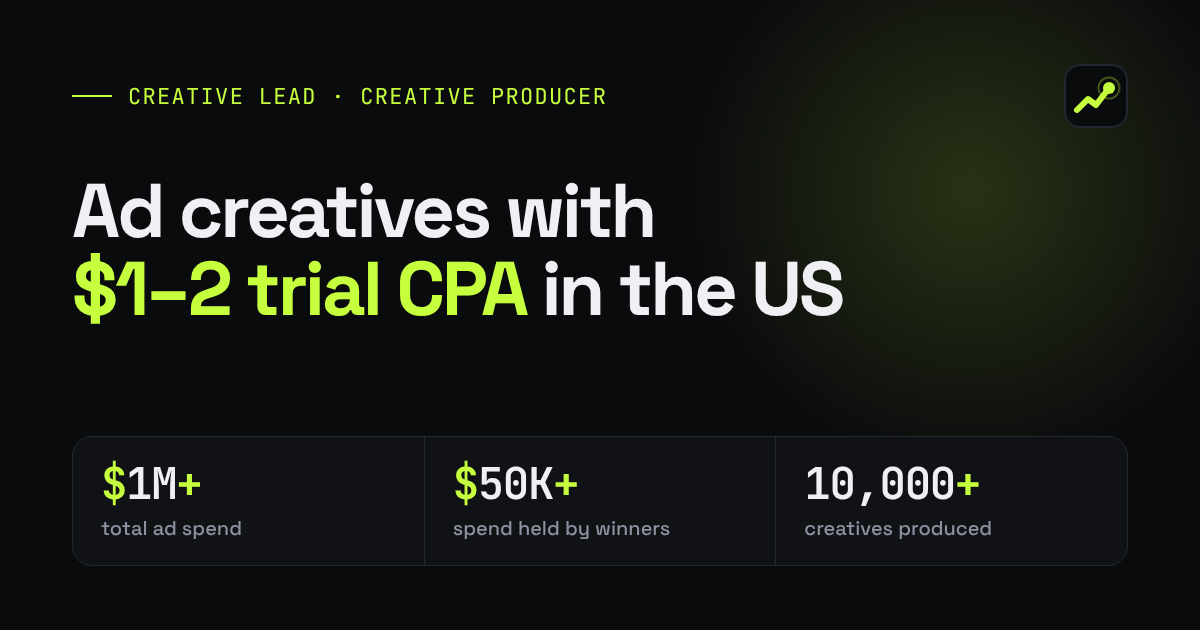
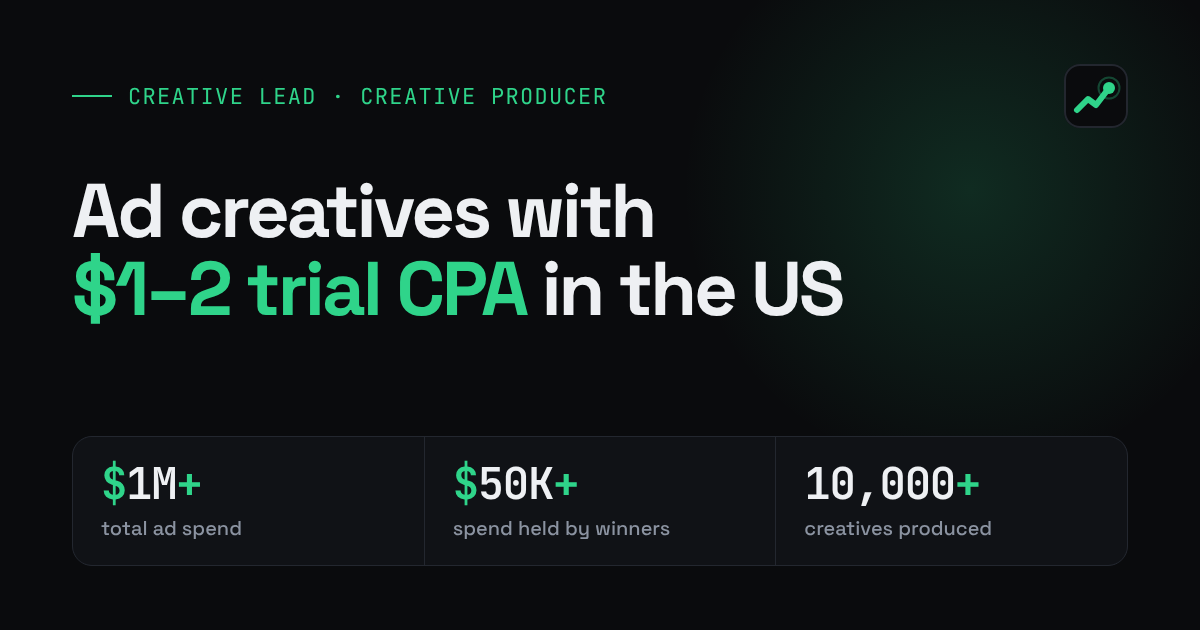
v15: emerald accent, calmer accent usage, warm white
Claude-Session: https://claude.ai/code/session_01Arj4ckdP8LwnjHu1jkwCt5

diff --git a/index.html b/index.html
@@ -28,7 +28,7 @@
   --line:#23272f;
   --text:#eef0f3;
   --muted:#8b93a1;
-  --accent:#c6ff3d;
+  --accent:#2fd48a;
   --accent-ink:#0a0b0d;
   --accent-2:#5ee1ff;
   --accent-3:#b892ff;
@@ -66,13 +66,13 @@ nav .btn{padding:9px 16px;font-size:14px}
 
 /* HERO */
 .hero{padding:64px 0 64px;position:relative}
-.hero::before{content:"";position:absolute;inset:-200px 0 auto 50%;width:900px;height:700px;transform:translateX(-30%);background:radial-gradient(closest-side,rgba(198,255,61,.12),transparent 70%);pointer-events:none}
+.hero::before{content:"";position:absolute;inset:-200px 0 auto 50%;width:900px;height:700px;transform:translateX(-30%);background:radial-gradient(closest-side,rgba(47,212,138,.12),transparent 70%);pointer-events:none}
 .tag{font-family:var(--mono);font-size:13px;color:var(--accent);letter-spacing:.06em;text-transform:uppercase;display:inline-flex;align-items:center;gap:10px}
 .tag::before{content:"";width:24px;height:1px;background:currentColor}
 h1{font-size:clamp(36px,6.2vw,76px);line-height:1.02;letter-spacing:-.04em;font-weight:700;margin:22px 0 22px}
 h1 em{font-style:normal;color:var(--accent)}
 h1 .ln{display:block}
-.spend{display:inline-flex;align-items:baseline;gap:4px 12px;flex-wrap:wrap;padding:10px 16px;border:1px solid rgba(198,255,61,.35);border-radius:12px;background:rgba(198,255,61,.06);margin-bottom:26px}
+.spend{display:inline-flex;align-items:baseline;gap:4px 12px;flex-wrap:wrap;padding:10px 16px;border:1px solid rgba(47,212,138,.35);border-radius:12px;background:rgba(47,212,138,.06);margin-bottom:26px}
 .spend b{font-family:var(--mono);font-size:22px;color:var(--accent);letter-spacing:-.02em}
 .spend span{color:var(--text);font-size:15px}
 .lead{font-size:clamp(17px,2vw,20px);color:var(--muted);max-width:60ch}
@@ -86,7 +86,7 @@ h1 .ln{display:block}
 .kpi .v .u{color:var(--accent)}
 .kpi .l{color:var(--muted);font-size:14px;margin-top:10px;max-width:30ch}
 .kpi .chip{position:absolute;top:22px;right:22px;font-family:var(--mono);font-size:11px;padding:4px 8px;border-radius:6px;border:1px solid var(--line);color:var(--muted)}
-.kpi .chip.paid{color:var(--accent);border-color:rgba(198,255,61,.35)}
+.kpi .chip.paid{color:var(--accent);border-color:rgba(47,212,138,.35)}
 .kpi .chip.org{color:var(--accent-2);border-color:rgba(94,225,255,.35)}
 @media(max-width:860px){.kpis{grid-template-columns:repeat(2,1fr)}}
 @media(max-width:520px){.kpis{grid-template-columns:1fr}}
@@ -128,7 +128,7 @@ h2{font-size:clamp(30px,4.4vw,54px);line-height:1.04;letter-spacing:-.035em;font
 .feature-l{padding:44px;display:flex;flex-direction:column;gap:22px;border-right:1px solid var(--line)}
 .meta{display:flex;gap:8px;flex-wrap:wrap}
 .meta span{font-family:var(--mono);font-size:12px;padding:5px 10px;border-radius:6px;border:1px solid var(--line);color:var(--muted)}
-.meta span:first-child{color:var(--accent);border-color:rgba(198,255,61,.35)}
+.meta span:first-child{color:var(--accent);border-color:rgba(47,212,138,.35)}
 .feature h3{font-size:clamp(26px,3vw,36px);letter-spacing:-.03em;line-height:1.1}
 .feature-l>p{color:var(--muted)}
 .story{list-style:none;display:flex;flex-direction:column;margin-top:8px}
@@ -252,8 +252,8 @@ h2{font-size:clamp(30px,4.4vw,54px);line-height:1.04;letter-spacing:-.035em;font
 .engine{display:grid;grid-template-columns:minmax(0,1fr) auto minmax(0,1fr);gap:14px;align-items:center;margin-top:auto}
 .engine .col{display:flex;flex-direction:column;gap:8px}
 .engine .col span{font-family:var(--mono);font-size:12px;padding:9px 12px;border-radius:8px;border:1px solid var(--line);color:var(--muted);background:var(--bg-2)}
-.engine .col.out span{color:var(--accent);border-color:rgba(198,255,61,.35)}
-.engine .core{width:84px;height:84px;border-radius:50%;display:grid;place-items:center;text-align:center;font-family:var(--mono);font-size:11px;line-height:1.3;color:var(--accent-ink);background:var(--accent);box-shadow:0 0 0 8px rgba(198,255,61,.1),0 0 40px rgba(198,255,61,.25)}
+.engine .col.out span{color:var(--accent);border-color:rgba(47,212,138,.35)}
+.engine .core{width:84px;height:84px;border-radius:50%;display:grid;place-items:center;text-align:center;font-family:var(--mono);font-size:11px;line-height:1.3;color:var(--accent-ink);background:var(--accent);box-shadow:0 0 0 8px rgba(47,212,138,.1),0 0 40px rgba(47,212,138,.25)}
 .engine .lbl{grid-column:1/-1;display:flex;justify-content:space-between;font-family:var(--mono);font-size:11px;color:var(--muted);text-transform:uppercase;letter-spacing:.06em}
 .funnel{list-style:none;display:flex;flex-direction:column;gap:6px;margin-top:auto;position:relative;padding-right:44px}
 .funnel li{display:flex;align-items:center;justify-content:space-between;gap:12px;padding:12px 16px;border-radius:10px;background:color-mix(in srgb,var(--accent-2) 10%,var(--bg-2));border:1px solid color-mix(in srgb,var(--accent-2) 28%,transparent);font-size:15px}
@@ -297,7 +297,7 @@ h2{font-size:clamp(30px,4.4vw,54px);line-height:1.04;letter-spacing:-.035em;font
 .cmp-row .chips span{font-size:14px;padding:7px 12px;border-radius:999px;border:1px solid var(--line);color:var(--muted)}
 .cmp-row .chips i{font-style:normal;color:var(--line);font-family:var(--mono)}
 .cmp-row .who{font-family:var(--mono);font-size:15px;color:var(--muted);text-align:right;white-space:nowrap}
-.cmp-row.me{border-color:rgba(198,255,61,.45);background:rgba(198,255,61,.06)}
+.cmp-row.me{border-color:rgba(47,212,138,.45);background:rgba(47,212,138,.06)}
 .cmp-row.me .chips span{color:var(--accent-ink);background:var(--accent);border-color:var(--accent);font-weight:500}
 .cmp-row.me .who{color:var(--accent);font-size:18px;font-weight:600}
 @media(max-width:900px){.solo{grid-template-columns:1fr;gap:24px}}
@@ -310,7 +310,7 @@ h2{font-size:clamp(30px,4.4vw,54px);line-height:1.04;letter-spacing:-.035em;font
 @media(max-width:560px){.lg-full{display:none}.lg-short{display:inline}}
 .abtest{display:flex;gap:8px;flex-wrap:wrap;font-family:var(--mono);font-size:12px;color:var(--muted)}
 .abtest span{padding:6px 10px;border:1px solid var(--line);border-radius:8px}
-.abtest span.w{color:var(--accent);border-color:rgba(198,255,61,.4)}
+.abtest span.w{color:var(--accent);border-color:rgba(47,212,138,.4)}
 .ab{display:grid;grid-template-columns:minmax(0,.75fr) minmax(0,1.45fr);gap:20px;margin-top:28px;align-items:start}
 .ab-card{border:1px solid var(--line);border-radius:var(--radius);padding:34px;display:flex;flex-direction:column;gap:16px;min-width:0}
 .ab-card .lab{display:flex;justify-content:space-between;align-items:center;font-family:var(--mono);font-size:13px;color:var(--muted)}
@@ -319,7 +319,7 @@ h2{font-size:clamp(30px,4.4vw,54px);line-height:1.04;letter-spacing:-.035em;font
 .ab-a .k{color:#ff5a4d}
 .ab-h{font-size:clamp(24px,2.3vw,32px);font-weight:700;letter-spacing:-.03em;line-height:1.06;color:#4a505b;text-decoration:line-through;text-decoration-color:#ff5a4d;text-decoration-thickness:3px}
 .ab-s{color:#5b616c}
-.ab-b{border-color:rgba(198,255,61,.35);background:radial-gradient(70% 80% at 85% 0%,rgba(198,255,61,.09),transparent 70%),var(--bg)}
+.ab-b{border-color:rgba(47,212,138,.35);background:radial-gradient(70% 80% at 85% 0%,rgba(47,212,138,.09),transparent 70%),var(--bg)}
 .ab-b h1{margin:4px 0 4px;font-size:clamp(34px,4.6vw,62px)}
 .ab-b .spend{margin-bottom:6px;align-self:flex-start}
 .ab-b .lead{font-size:clamp(16px,1.5vw,18px)}
@@ -339,7 +339,7 @@ body::after{content:"";position:fixed;inset:0;pointer-events:none;z-index:100;op
 .brief h5{font-family:var(--mono);font-size:12px;text-transform:uppercase;letter-spacing:.06em;color:var(--muted);font-weight:400;margin-bottom:16px}
 .brief ol{list-style:none;counter-reset:b;display:flex;flex-direction:column;gap:12px}
 .brief li{counter-increment:b;display:flex;gap:14px;font-size:16px}
-.brief li::before{content:counter(b);font-family:var(--mono);font-size:12px;color:var(--accent);width:22px;height:22px;border:1px solid rgba(198,255,61,.35);border-radius:6px;display:grid;place-items:center;flex:none;margin-top:1px}
+.brief li::before{content:counter(b);font-family:var(--mono);font-size:12px;color:var(--accent);width:22px;height:22px;border:1px solid rgba(47,212,138,.35);border-radius:6px;display:grid;place-items:center;flex:none;margin-top:1px}
 @media(max-width:860px){.contact-grid{grid-template-columns:1fr}}
 .contact-side{display:flex;flex-direction:column;gap:16px;min-width:0}
 .offer{border-radius:var(--radius);padding:28px;background:var(--accent);color:var(--accent-ink);display:flex;flex-direction:column;gap:12px}
@@ -374,6 +374,18 @@ footer .wrap{display:flex;justify-content:space-between;gap:12px;flex-wrap:wrap}
  linear-gradient(var(--c),var(--c)) bottom left/var(--l) var(--w) no-repeat,linear-gradient(var(--c),var(--c)) bottom left/var(--w) var(--l) no-repeat,
  linear-gradient(var(--c),var(--c)) bottom right/var(--l) var(--w) no-repeat,linear-gradient(var(--c),var(--c)) bottom right/var(--w) var(--l) no-repeat}
 @media(max-width:600px){.brk::after{inset:-7px;--l:14px}}
+
+/* CALM ACCENT: less accent area, warm white */
+:root{--text:#f1ede4}
+.big{background:var(--bg-2);color:var(--text);border-bottom:1px solid var(--line)}
+.big small{color:var(--muted);opacity:1}
+.big strong{color:var(--accent)}
+.big p{color:var(--muted)}
+.ab-b{background:var(--bg)}
+.cmp-row.me .chips span{background:transparent;color:var(--accent);border-color:color-mix(in srgb,var(--accent) 50%,transparent)}
+.offer{background:var(--bg-2);color:var(--text);border:1px solid var(--line)}
+.offer p{color:var(--muted)!important;opacity:1}
+.offer a{background:var(--accent);color:var(--accent-ink)}
 </style>
 </head>
 <body>
